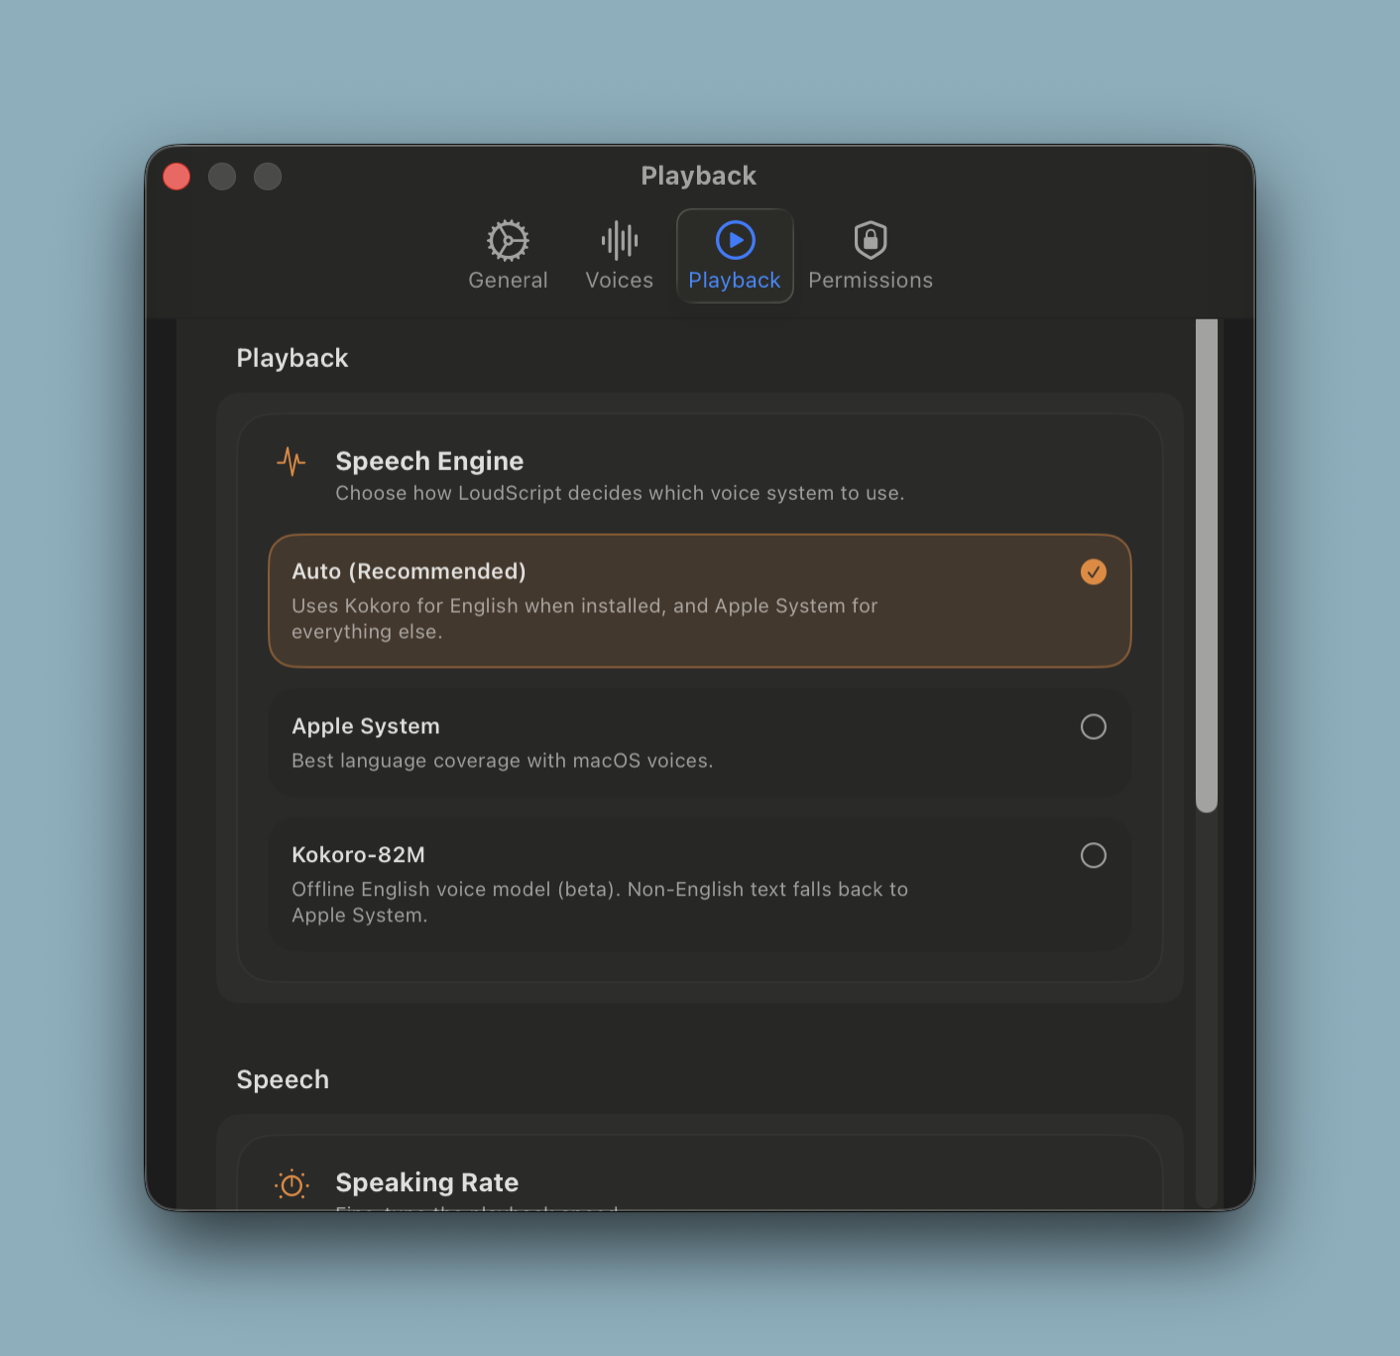
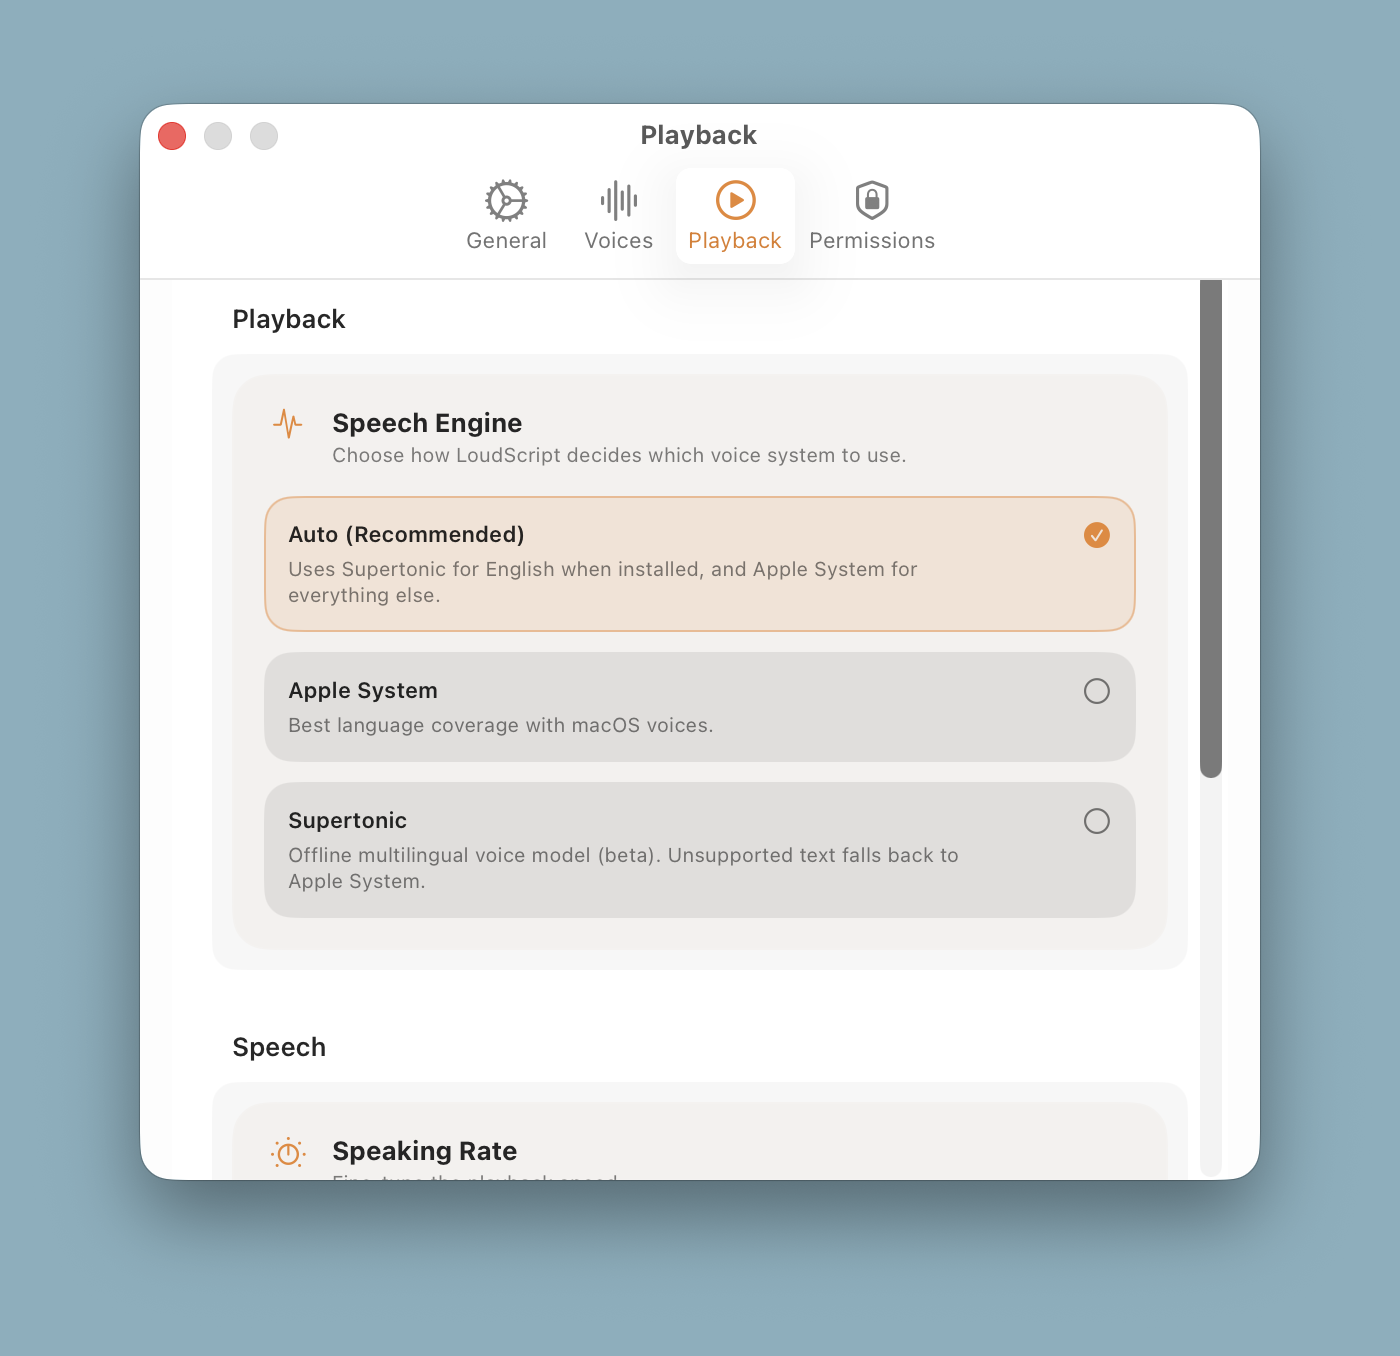
Replace Kokoro website references with Supertonic

diff --git a/index.html b/index.html
@@ -5,8 +5,8 @@
     <meta charset="UTF-8">
     <meta name="viewport" content="width=device-width, initial-scale=1.0">
     <meta http-equiv="X-UA-Compatible" content="ie=edge">
-    <meta name="description" content="LoudScript for Mac reads selected text from any app, captures on-screen text with OCR, and plays speech with Apple voices or Kokoro AI while a floating overlay keeps you in control.">
-    <meta name="keywords" content="loudscript mac, mac text to speech, mac reading app, screenshot OCR, selected text reader, kokoro tts mac, apple voices mac, productivity app mac, AI voices mac">
+    <meta name="description" content="LoudScript for Mac reads selected text from any app, captures on-screen text with OCR, and plays speech with Apple voices or Supertonic while a floating overlay keeps you in control.">
+    <meta name="keywords" content="loudscript mac, mac text to speech, mac reading app, screenshot OCR, selected text reader, supertonic tts mac, apple voices mac, productivity app mac, AI voices mac">
     <meta name="author" content="Ho Ye Lam">
     <meta name="robots" content="index, follow">
 
@@ -15,12 +15,12 @@
     <meta property="og:type" content="website">
     <meta property="og:url" content="https://loudscript.app/">
     <meta property="og:image" content="https://loudscript.app/images/mac/mac-main-window.png">
-    <meta property="og:description" content="Select text from any app, capture screenshots with OCR, and listen with Apple voices or Kokoro AI. Free notarized download.">
+    <meta property="og:description" content="Select text from any app, capture screenshots with OCR, and listen with Apple voices or Supertonic. Free notarized download.">
     <meta property="og:locale" content="en_US">
 
     <meta name="twitter:card" content="summary_large_image">
     <meta name="twitter:title" content="LoudScript for Mac — Listen to Anything on Your Mac">
-    <meta name="twitter:description" content="Select text from any app, capture screenshots with OCR, and listen with Apple voices or Kokoro AI.">
+    <meta name="twitter:description" content="Select text from any app, capture screenshots with OCR, and listen with Apple voices or Supertonic.">
     <meta name="twitter:image" content="https://loudscript.app/images/mac/mac-main-window.png">
     <meta name="twitter:creator" content="@hoyelam">
 
@@ -41,7 +41,7 @@
       "@context": "https://schema.org",
       "@type": "SoftwareApplication",
       "name": "LoudScript for Mac",
-      "description": "LoudScript for Mac reads selected text from any app, captures on-screen text with OCR, and plays speech with Apple voices or Kokoro AI neural voices.",
+      "description": "LoudScript for Mac reads selected text from any app, captures on-screen text with OCR, and plays speech with Apple voices or Supertonic neural voices.",
       "operatingSystem": "macOS 15.6+",
       "applicationCategory": "ProductivityApplication",
       "downloadUrl": "https://github.com/hoyelam/loudscript-website/releases/download/loudscript-mac-latest/LoudScript.dmg",
@@ -114,8 +114,8 @@
             </article>
             <article class="mac-feature-card mac-reveal">
                 <span class="mac-feature-label">Dual Voices</span>
-                <h2>Apple voices and Kokoro AI.</h2>
-                <p>Choose Apple system voices for broad language support or Kokoro for more natural AI speech when you want it.</p>
+                <h2>Apple voices and Supertonic.</h2>
+                <p>Choose Apple system voices for broad language support or install Supertonic for offline multilingual speech when you want it.</p>
             </article>
             <article class="mac-feature-card mac-reveal">
                 <span class="mac-feature-label">Background Playback</span>
@@ -149,7 +149,7 @@
                 <span class="mac-section-label">Voice & Playback</span>
                 <h2>Dial in how LoudScript reads.</h2>
                 <p>
-                    Switch between Apple system voices and Kokoro neural voices, adjust reading speed, and turn on smart formatting that cleans up text before it's spoken.
+                    Switch between Apple system voices and Supertonic neural voices, adjust reading speed, and turn on smart formatting that cleans up text before it's spoken.
                 </p>
                 <ul class="mac-detail-list">
                     <li>Automatic routing picks the best available voice</li>